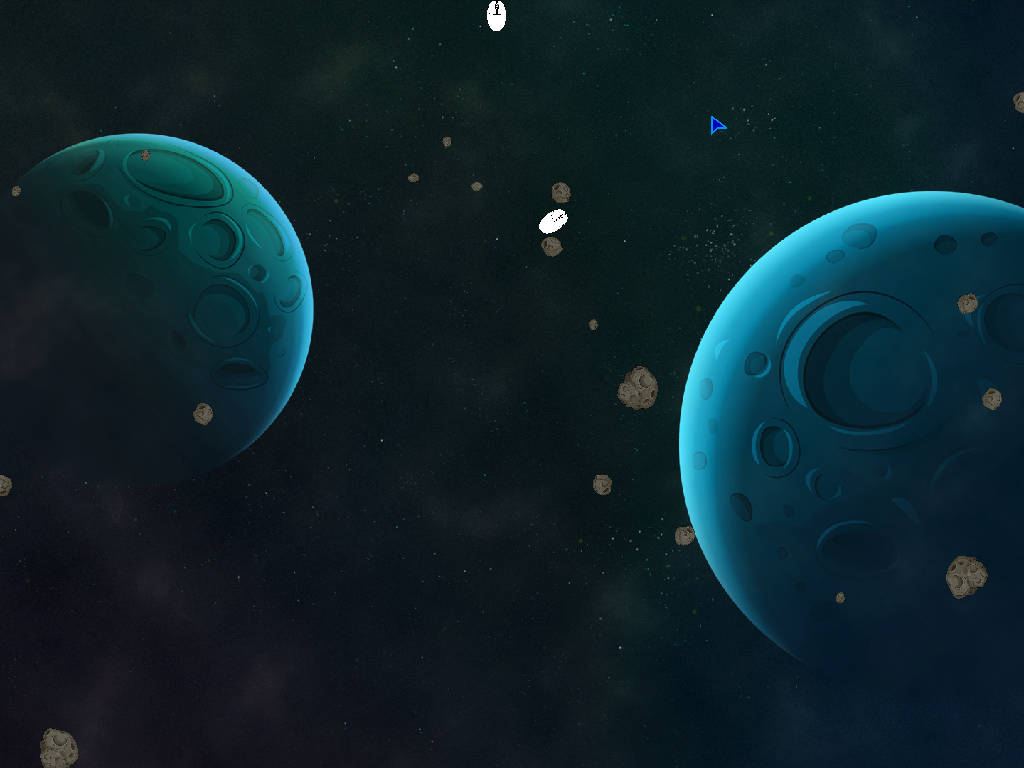
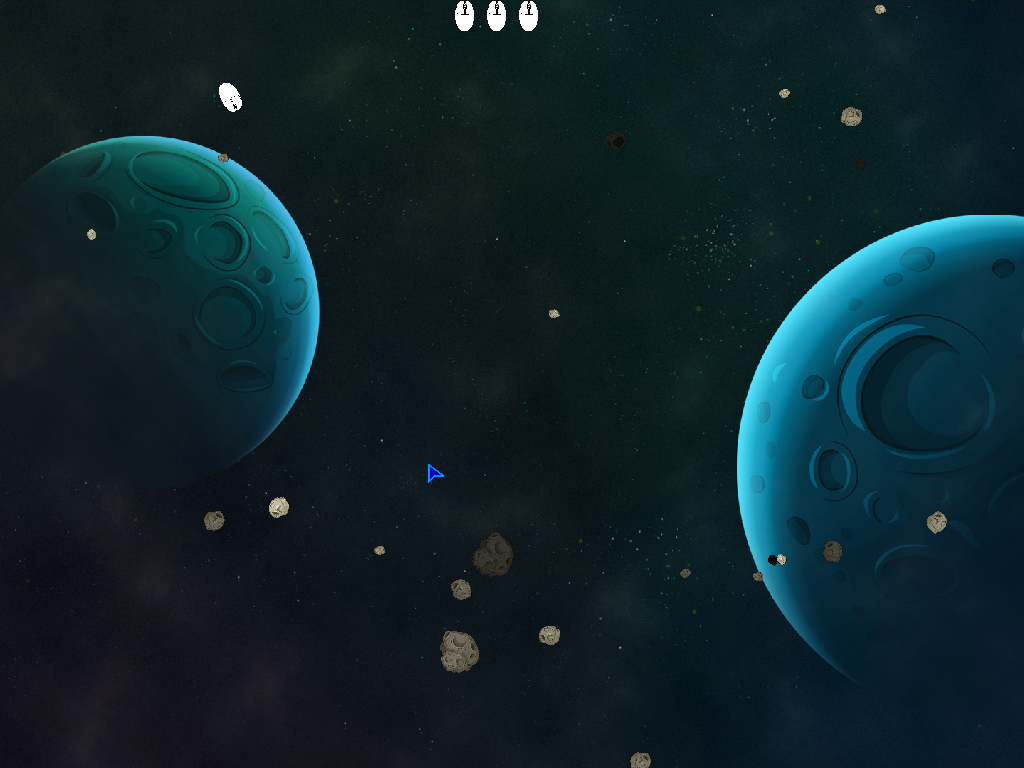
Fixed black asteroids

diff --git a/Asteroids/src/Asteroid.cpp b/Asteroids/src/Asteroid.cpp
@@ -41,8 +41,9 @@ void newRock(Rock& rock, Rock::State state)
 	rock.rot = (float)(rand() % 360);
 	randomRotSpeed(rock.rotSpeed);
 
-	int rn = rand() % 54 + 200;
-	Color color{ (unsigned char)rand, (unsigned char)rand, (unsigned char)rand, 254 };
+	int rn = rand() % 254;
+	unsigned char brightness = (unsigned char)rn;
+	Color color{ brightness, brightness, brightness, 254 };
 
 	rock.color = color;
 }
